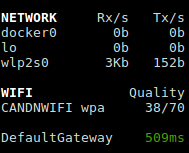
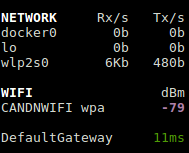
Add thresholds and update docs (issue #937)

diff --git a/glances/plugins/glances_wifi.py b/glances/plugins/glances_wifi.py
@@ -129,19 +129,36 @@ class Plugin(GlancesPlugin):
 
         return self.stats
 
+    def get_alert(self, value):
+        """Overwrite the default get_alert method.
+        Alert is on signal quality where lower is better...
+
+        :returns: string -- Signal alert
+        """
+
+        ret = 'OK'
+        try:
+            if value <= self.get_limit('critical', stat_name=self.plugin_name):
+                ret = 'CRITICAL'
+            elif value <= self.get_limit('warning', stat_name=self.plugin_name):
+                ret = 'WARNING'
+            elif value <= self.get_limit('careful', stat_name=self.plugin_name):
+                ret = 'CAREFUL'
+        except KeyError:
+            ret = 'DEFAULT'
+
+        return ret
+
     def update_views(self):
         """Update stats views."""
         # Call the father's method
         super(Plugin, self).update_views()
 
         # Add specifics informations
-        # Alert
-        # for i in self.stats:
-        #     ifrealname = i['interface_name'].split(':')[0]
-        #     self.views[i[self.get_key()]]['rx']['decoration'] = self.get_alert(int(i['rx'] // i['time_since_update'] * 8),
-        #                                                                        header=ifrealname + '_rx')
-        #     self.views[i[self.get_key()]]['tx']['decoration'] = self.get_alert(int(i['tx'] // i['time_since_update'] * 8),
-        #                                                                        header=ifrealname + '_tx')
+        # Alert on signal thresholds
+        for i in self.stats:
+            self.views[i[self.get_key()]]['signal']['decoration'] = self.get_alert(i['signal'])
+            self.views[i[self.get_key()]]['quality']['decoration'] = self.views[i[self.get_key()]]['signal']['decoration']
 
     def msg_curse(self, args=None, max_width=None):
         """Return the dict to display in the curse interface."""
@@ -163,15 +180,15 @@ class Plugin(GlancesPlugin):
         # Header
         msg = '{:{width}}'.format('WIFI', width=ifname_max_width)
         ret.append(self.curse_add_line(msg, "TITLE"))
-        msg = '{:>6}'.format('Quality')
+        msg = '{:>7}'.format('dBm')
         ret.append(self.curse_add_line(msg))
 
         # Hotspot list (sorted by name)
         for i in sorted(self.stats, key=operator.itemgetter(self.get_key())):
-            ret.append(self.curse_new_line())
             # Do not display hotspot with no name (/ssid)
             if i['ssid'] == '':
                 continue
+            ret.append(self.curse_new_line())
             # New hotspot
             hotspotname = i['ssid']
             # Add the encryption type (if it is available)
@@ -183,7 +200,10 @@ class Plugin(GlancesPlugin):
             # Add the new hotspot to the message
             msg = '{:{width}}'.format(hotspotname, width=ifname_max_width)
             ret.append(self.curse_add_line(msg))
-            msg = '{:>7}'.format(i['quality'], width=ifname_max_width)
-            ret.append(self.curse_add_line(msg))
+            msg = '{:>7}'.format(i['signal'], width=ifname_max_width)
+            ret.append(self.curse_add_line(msg,
+                                           self.get_views(item=i[self.get_key()],
+                                                          key='signal',
+                                                          option='decoration')))
 
         return ret

diff --git a/glances/plugins/glances_plugin.py b/glances/plugins/glances_plugin.py
@@ -503,11 +503,11 @@ class GlancesPlugin(object):
         # If is_max is set then display the value in MAX
         ret = 'MAX' if is_max else 'OK'
         try:
-            if value > self.__get_limit('critical', stat_name=stat_name):
+            if value >= self.get_limit('critical', stat_name=stat_name):
                 ret = 'CRITICAL'
-            elif value > self.__get_limit('warning', stat_name=stat_name):
+            elif value >= self.get_limit('warning', stat_name=stat_name):
                 ret = 'WARNING'
-            elif value > self.__get_limit('careful', stat_name=stat_name):
+            elif value >= self.get_limit('careful', stat_name=stat_name):
                 ret = 'CAREFUL'
             elif current < minimum:
                 ret = 'CAREFUL'
@@ -516,7 +516,7 @@ class GlancesPlugin(object):
 
         # Manage log
         log_str = ""
-        if self.__get_limit_log(stat_name=stat_name, default_action=log):
+        if self.get_limit_log(stat_name=stat_name, default_action=log):
             # Add _LOG to the return string
             # So stats will be highlited with a specific color
             log_str = "_LOG"
@@ -537,7 +537,7 @@ class GlancesPlugin(object):
         """Manage the action for the current stat"""
         # Here is a command line for the current trigger ?
         try:
-            command = self.__get_limit_action(trigger, stat_name=stat_name)
+            command = self.get_limit_action(trigger, stat_name=stat_name)
         except KeyError:
             # Reset the trigger
             self.actions.set(stat_name, trigger)
@@ -578,7 +578,7 @@ class GlancesPlugin(object):
                               action_key=action_key,
                               log=True)
 
-    def __get_limit(self, criticity, stat_name=""):
+    def get_limit(self, criticity, stat_name=""):
         """Return the limit value for the alert."""
         # Get the limit for stat + header
         # Exemple: network_wlan0_rx_careful
@@ -594,7 +594,7 @@ class GlancesPlugin(object):
         # Return the limit
         return limit
 
-    def __get_limit_action(self, criticity, stat_name=""):
+    def get_limit_action(self, criticity, stat_name=""):
         """Return the action for the alert."""
         # Get the action for stat + header
         # Exemple: network_wlan0_rx_careful_action
@@ -608,7 +608,7 @@ class GlancesPlugin(object):
         # Return the action list
         return ret
 
-    def __get_limit_log(self, stat_name, default_action=False):
+    def get_limit_log(self, stat_name, default_action=False):
         """Return the log tag for the alert."""
         # Get the log tag for stat + header
         # Exemple: network_wlan0_rx_log

diff --git a/docs/aoa/wifi.rst b/docs/aoa/wifi.rst
@@ -5,14 +5,25 @@ Wifi
 
 .. image:: ../_static/wifi.png
 
-Glances displays the Wifi hotspot name and quality where the host is connected.
+Glances displays the Wifi hotspots' name and signal quality.
 If Glances is ran as root, then all the available hotspots are displayed.
 
+In the configuration file, you can define signal quality thresholds.
+"Poor" quality is between -100 and -85dBm, "Good" quality between -85
+and -60dBm, and "Excellent" between -60 and -40dBm.
+
 It's also possible to disable the scan on a specific interface from the
-configuration file (``[network]`` section). For example, if you want to
-hide the loopback interface (lo) and all the virtual docker interface:
+configuration file (``[wifi]`` section). For example, if you want to
+hide the loopback interface (lo) and all the virtual docker interfaces:
 
 .. code-block:: ini
 
     [wifi]
     hide=lo,docker.*
+    # Define SIGNAL thresholds in dBm (lower is better...)
+    careful=-65
+    warning=-75
+    critical=-85
+
+You can disable this plugin using the --disable-wifi option or by heating
+the 'W' from the user interface.
